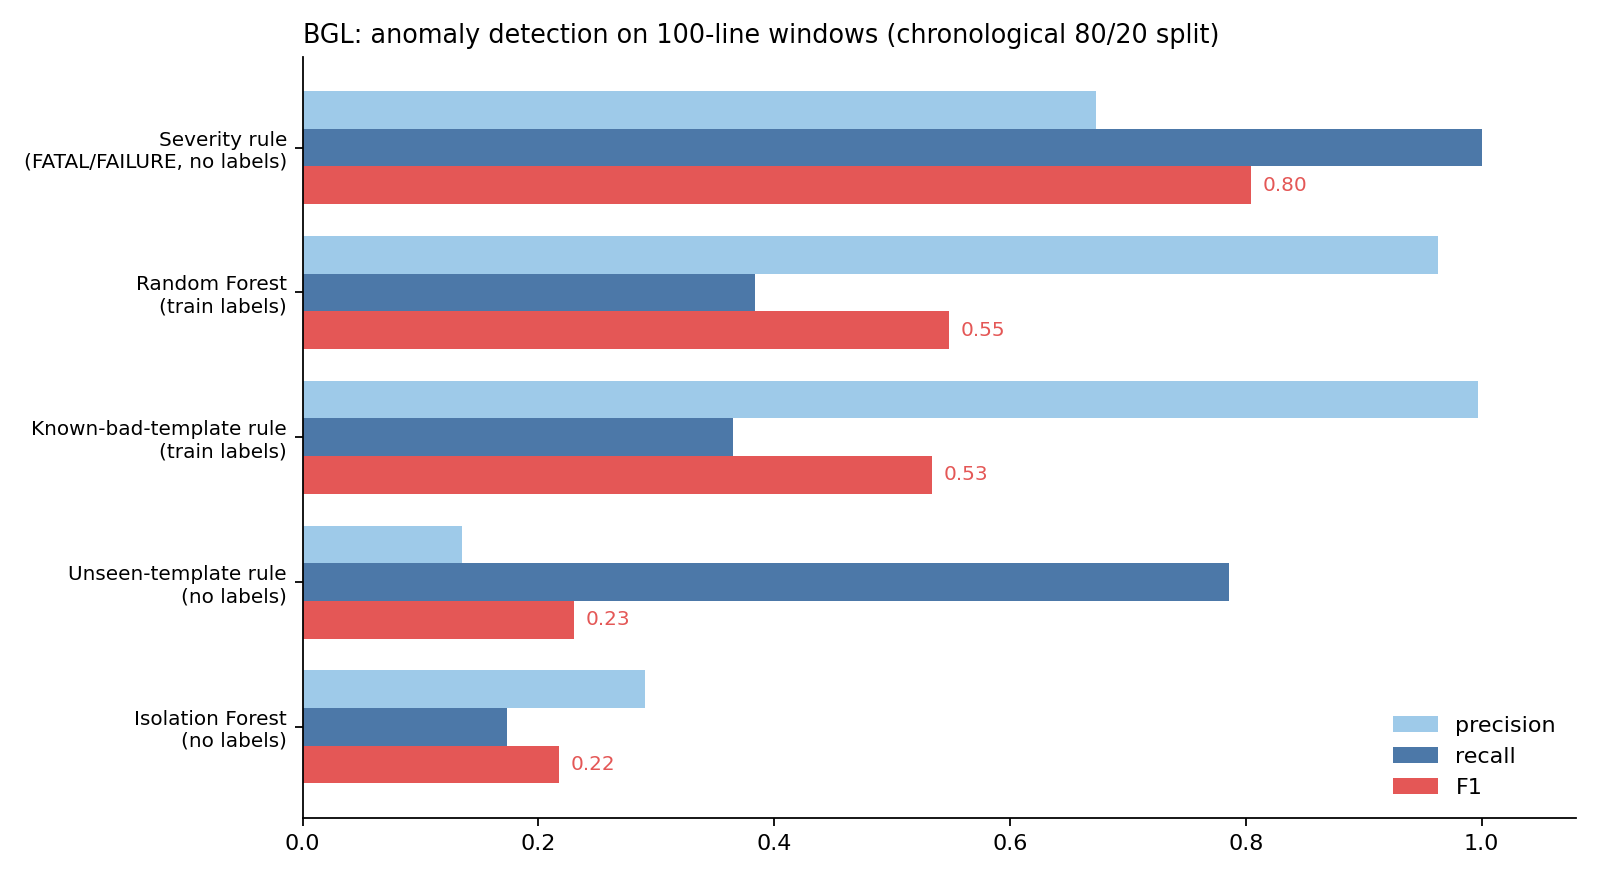
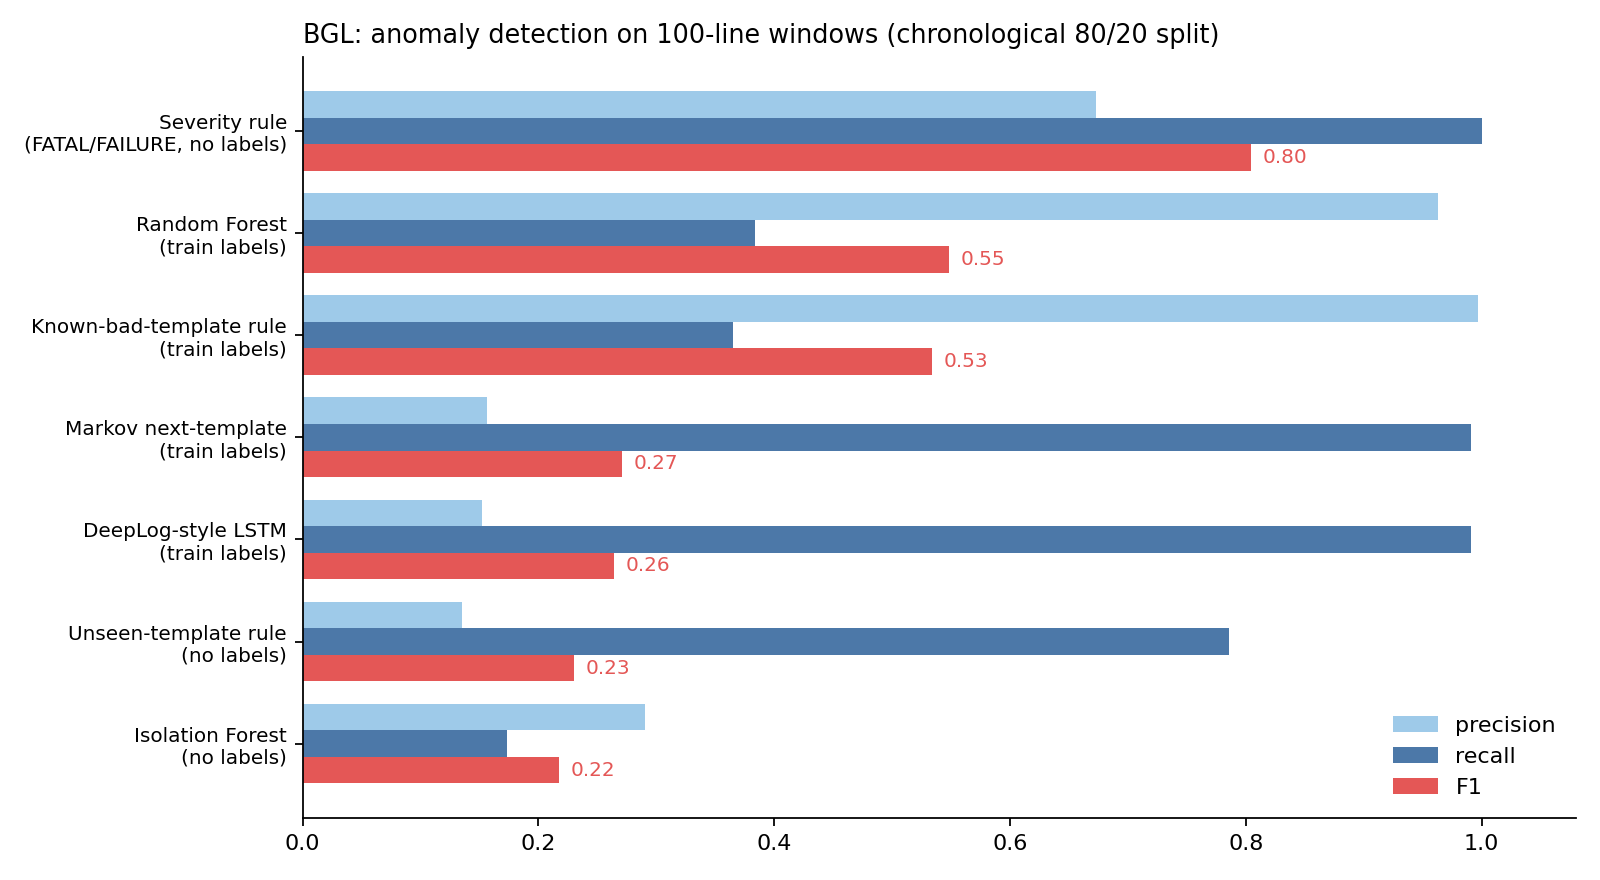
Benchmark sequence models on BGL and add top-g sweep chart
Both sequence models reach F1 ~0.27 at g=9 (recall 0.99, precision 0.15):
44.8% of test lines use templates unseen in training. The severity rule
(F1 0.80) still wins.

diff --git a/src/loganomaly/plots.py b/src/loganomaly/plots.py
@@ -2,6 +2,8 @@
 
 Usage:
     python -m loganomaly.plots templates --dataset BGL_2k
+    python -m loganomaly.plots benchmark --dataset BGL --window 100
+    python -m loganomaly.plots sequence  --dataset BGL --window 100
 """
 import argparse
 import textwrap
@@ -46,6 +48,8 @@ LABELS = {
     "known_bad_rule": "Known-bad-template rule\n(train labels)",
     "isolation_forest": "Isolation Forest\n(no labels)",
     "random_forest": "Random Forest\n(train labels)",
+    "markov_next_template": "Markov next-template\n(train labels)",
+    "deeplog_lstm": "DeepLog-style LSTM\n(train labels)",
 }
 
 
@@ -73,13 +77,47 @@ def benchmark_chart(name: str, window: int) -> None:
     print(f"Saved {out}")
 
 
+def sequence_chart(name: str, window: int) -> None:
+    """F1 vs g for both sequence models, with unknown templates flagged or ignored."""
+    df = pd.read_csv(RESULTS_DIR / f"{name}_w{window}_sequence_topg.csv")
+    bench = pd.read_csv(RESULTS_DIR / f"{name}_w{window}_results.csv").set_index("method")
+    fig, ax = plt.subplots(figsize=(9, 5))
+    styles = {("lstm", "flagged"): (ANOMALY, "-", "LSTM, unknown templates flagged (DeepLog)"),
+              ("markov", "flagged"): (ANOMALY, "--", "Markov, unknown templates flagged"),
+              ("lstm", "ignored"): (NORMAL, "-", "LSTM, unknown templates ignored"),
+              ("markov", "ignored"): (NORMAL, "--", "Markov, unknown templates ignored")}
+    for (model, policy), (color, ls, label) in styles.items():
+        d = df[(df["model"] == model) & (df["unknown_templates"] == policy)]
+        ax.plot(d["g"], d["f1"], ls, color=color, marker="o", label=label)
+    rule = bench.loc["severity_rule", "f1"]
+    ax.axhline(rule, color="#555", lw=1, ls=":")
+    ax.text(df["g"].max(), rule + 0.015, f"severity rule (no labels): F1 {rule:.2f}",
+            ha="right", fontsize=9, color="#555")
+    ax.axvline(9, color="#bbb", lw=0.8)
+    ax.text(9.3, 0.03, "g = 9 (DeepLog default)", fontsize=8.5, color="#888")
+    ax.set_xlabel("g: a line is normal if its template is among the model's top-g predictions")
+    ax.set_ylabel("F1 on test windows")
+    ax.set_ylim(0, 1)
+    ax.set_title(f"{name}: next-template prediction does not beat the severity rule\n"
+                 f"({window}-line windows, chronological 80/20 split)", loc="left", fontsize=11.5)
+    ax.legend(frameon=False, loc="upper left", fontsize=9)
+    for side in ("top", "right"):
+        ax.spines[side].set_visible(False)
+    fig.tight_layout()
+    out = RESULTS_DIR / f"{name}_w{window}_sequence_topg.png"
+    fig.savefig(out, dpi=160)
+    print(f"Saved {out}")
+
+
 if __name__ == "__main__":
     parser = argparse.ArgumentParser(description=__doc__)
-    parser.add_argument("chart", choices=["templates", "benchmark"])
+    parser.add_argument("chart", choices=["templates", "benchmark", "sequence"])
     parser.add_argument("--dataset", default="BGL_2k")
     parser.add_argument("--window", type=int, default=100)
     args = parser.parse_args()
     if args.chart == "templates":
         templates_chart(args.dataset)
+    elif args.chart == "sequence":
+        sequence_chart(args.dataset, args.window)
     else:
         benchmark_chart(args.dataset, args.window)

diff --git a/src/loganomaly/benchmark.py b/src/loganomaly/benchmark.py
@@ -9,6 +9,10 @@ Methods (so far):
                        counts. Contamination is set to the training anomaly rate (a common,
                        slightly optimistic convention; stated so results are not over-read).
   random_forest        uses training labels. Supervised Random Forest on the same features.
+  markov_next_template uses training labels (normal lines only). Order-1 transition counts;
+                       flag a window if a line is not among the 9 most likely next templates.
+  deeplog_lstm         uses training labels (normal lines only). DeepLog-style LSTM over the
+                       last 10 templates, same top-9 rule. See sequence.py.
 
 Metrics: precision, recall, F1 on test windows; plus fit and predict time.
 
@@ -25,6 +29,7 @@ from sklearn.metrics import f1_score, precision_score, recall_score
 
 from loganomaly import RESULTS_DIR
 from loganomaly.features import chronological_split, load_events, make_windows
+from loganomaly.sequence import deeplog_lstm, markov_next_template
 
 SEVERE_LEVELS = {"FATAL", "FAILURE"}
 
@@ -81,6 +86,8 @@ METHODS = {
     "known_bad_rule": ("rule", "train labels", known_bad_rule),
     "isolation_forest": ("ML", "none", isolation_forest),
     "random_forest": ("ML", "train labels", random_forest),
+    "markov_next_template": ("sequence", "train labels", markov_next_template),
+    "deeplog_lstm": ("sequence", "train labels", deeplog_lstm),
 }
 
 
